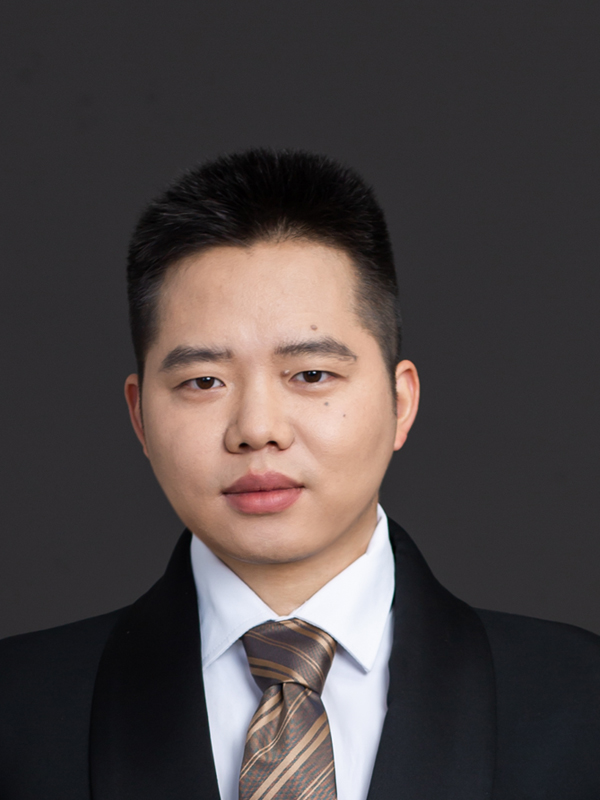
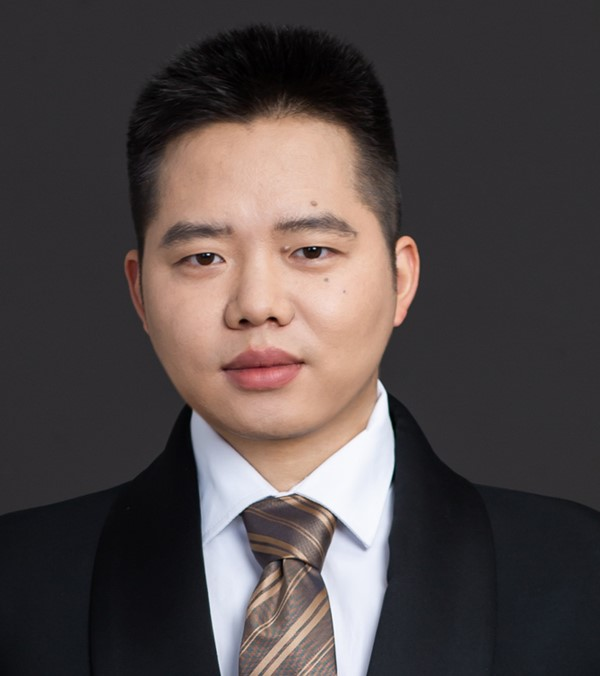
v1

Changed region(s): [[0.0, 0.0311, 1.0, 1.0]]

diff --git a/_pages/about.md b/_pages/about.md
@@ -2,14 +2,13 @@
 layout: about
 title: About
 permalink: /
-subtitle:  Research Fellow, <a href='https://ids.nus.edu.sg/index.html'>Institute of Data Science (IDS)</a>, <a href='https://nus.edu.sg/'>National University of Singapore (NUS)</a>
+subtitle:  Research Fellow, <a href='https://nus.edu.sg/'>National University of Singapore (NUS)</a>. E-mail, ryliu@nus.edu.sg
 
 profile:
-  align: right
-  image: ryliu_c.jpg
-  image_circular: true # crops the image to make it circular
+  align: left
+  image: ryliu_v0.jpg
+  image_circular: false # crops the image to make it circular
   more_info: >
-    <p>ryliu[AT]nus[dot]edu[dot]sg</p>
 
 
 news: true # includes a list of news items
@@ -17,9 +16,30 @@ selected_papers: true # includes a list of papers marked as "selected={true}"
 social: true # includes social icons at the bottom of the page
 ---
 
-Greetings! I am currently a Research Fellow at the Institute of Data Science, National University of Singapore, working with <a href='https://www.comp.nus.edu.sg/~ngsk/'>Prof. See-Kiong Ng</a>. Before that, I received my PhD degree at <a href='https://www.ynu.edu.cn/'>Yunnan University</a>, supervised by <a href='http://www.sei.ynu.edu.cn/info/1023/1106.htm'>Prof. Wei Zhou</a>. From 2022.12-2023.12, I am a visiting student in the College of Computing and Data Science, Nanyang Technological University, Singapore, , supervised by <a href='https://personal.ntu.edu.sg/kwokyan.lam/'>Prof. LAM, Kwok Yan</a>. From 2023.12-2024.08, I am a Research Intern in the School of Cyber Security, <a href='https://www.sysu.edu.cn/'>Sun Yat-sen University</a>, China, supervised by <a href='https://scst.sysu.edu.cn/members/members01/1410204.htm'>Prof. Ziyu lvy</a>.
+<!-- Greetings! I am currently a Research Fellow at the Institute of Data Science, National University of Singapore, working with <a href='https://www.comp.nus.edu.sg/~ngsk/'>Prof. See-Kiong Ng</a>. Before that, I received my PhD degree at <a href='https://www.ynu.edu.cn/'>Yunnan University</a>, supervised by <a href='http://www.sei.ynu.edu.cn/info/1023/1106.htm'>Prof. Wei Zhou</a>. From 2022.12-2023.12, I am a visiting student in the College of Computing and Data Science, Nanyang Technological University, Singapore, , supervised by <a href='https://personal.ntu.edu.sg/kwokyan.lam/'>Prof. LAM, Kwok Yan</a>. From 2023.12-2024.08, I am a Research Intern in the School of Cyber Security, <a href='https://www.sysu.edu.cn/'>Sun Yat-sen University</a>, China, supervised by <a href='https://scst.sysu.edu.cn/members/members01/1410204.htm'>Prof. Ziyu lvy</a>.
 
 <p><b>Address:</b> innovation 4.0, #04-06, Research Link Singapore 117602, Singapore</p>
 
-<p style="margin-bottom: 50px;"><b>Research interests:</b> AI Security & Data Privacy, Machine Unlearning, Adversarial Attacks, Compter Vison.</p>
+<p style="margin-bottom: 50px;"><b>Research interests:</b> AI Security & Data Privacy, Machine Unlearning, Adversarial Attacks, Compter Vison.</p> -->
 
+
+
+
+🎉 **Greetings!**  
+I am currently a **Research Fellow** at the **Institute of Data Science**, **<a href='https://nus.edu.sg/'>National University of Singapore</a>** 🏛, working with <a href='https://www.comp.nus.edu.sg/~ngsk/'>Prof. See-Kiong Ng</a> 👨🏫. Before that, I received my **PhD degree** 🎓 at **<a href='https://www.ynu.edu.cn/'>Yunnan University</a>**, supervised by <a href='http://www.sei.ynu.edu.cn/info/1023/1106.htm'>Prof. Wei Zhou </a>👨🔬.  📅 **From 2022.12 to 2023.12**, I was a **visiting student** at the **College of Computing and Data Science**, **<a href='https://www.ntu.edu.sg/'>Nanyang Technological University, Singapore</a>** 🇸🇬, under the supervision of <a href='https://personal.ntu.edu.sg/kwokyan.lam/'>Prof. LAM, Kwok Yan </a>👨🏫.  📅 **From 2023.12 to 2024.08**, I am a **Research Intern** at the **School of Cyber Security**, **<a href='https://www.sysu.edu.cn/'>Sun Yat-sen University</a>** China, supervised by <a href='https://scst.sysu.edu.cn/members/members01/1410204.htm'>Prof. Ziyu Lvy</a>. 👩🏫
+
+📍 **Address**: Innovation 4.0 🏢, #04-06, Research Link, Singapore 117602, Singapore
+
+💡 **Research Interests:**  
+        - **AI Security & Data Privacy** 🔐  
+        - **Machine Unlearning** 🔄  
+        - **Adversarial Attacks** 🛡  
+        - **Computer Vision** 👁  
+
+<!-- <p><strong>Research Interests</strong>:</p>
+<ul style="margin-left: 50px;">
+    <li style="margin-left: 50px;"><strong>AI Security & Data Privacy</strong> 🔐</li>
+    <li><strong>Machine Unlearning</strong> 🔄</li>
+    <li><strong>Adversarial Attacks</strong> 🛡</li>
+    <li><strong>Computer Vision</strong> 👁</li>
+</ul> -->

diff --git a/_pages/service.md b/_pages/service.md
@@ -14,7 +14,7 @@ nav_order: 3
   - PC Member, ICONIP 2024
 - 2023
   - PC Member, ICDCS 2023
-  - Reviewer, ACM MM 2023  - 
+  - Reviewer, ACM MM 2023
   - Reviewer, ECAI 2023
   - Reviewer, ICONIP 2023
 
